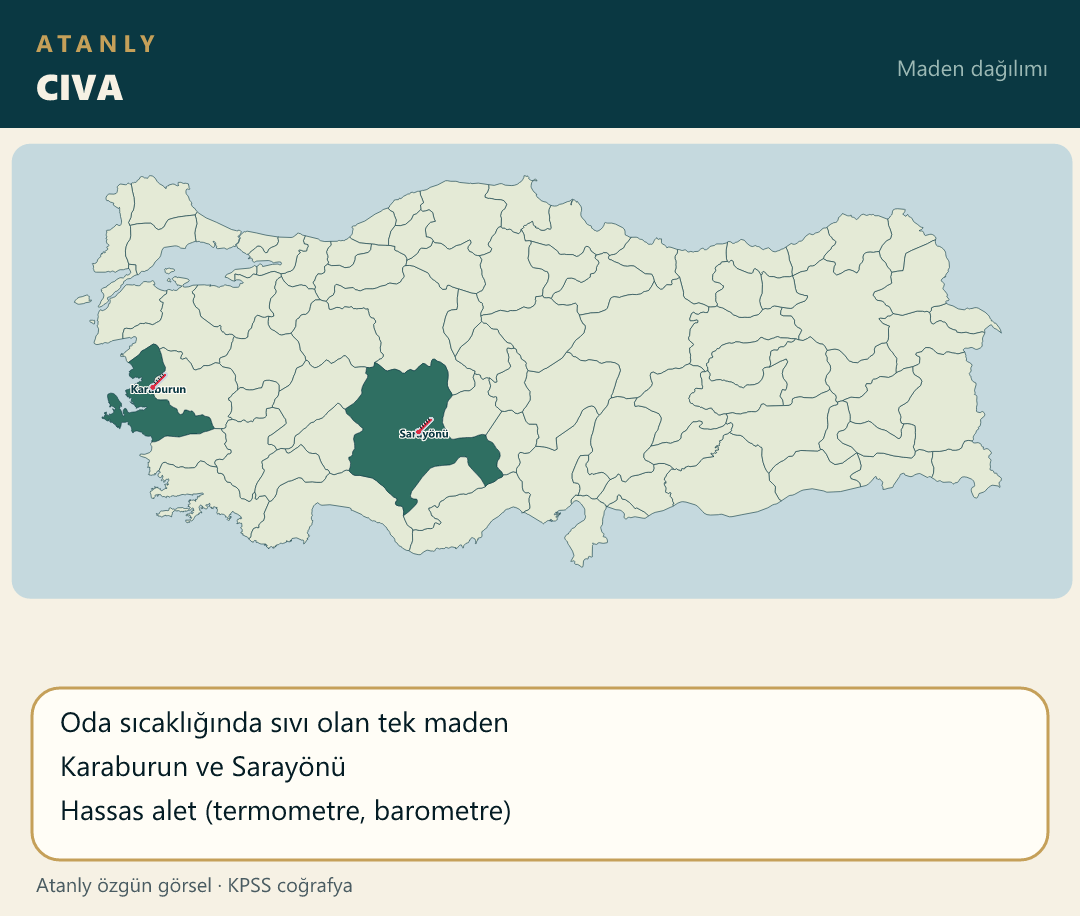
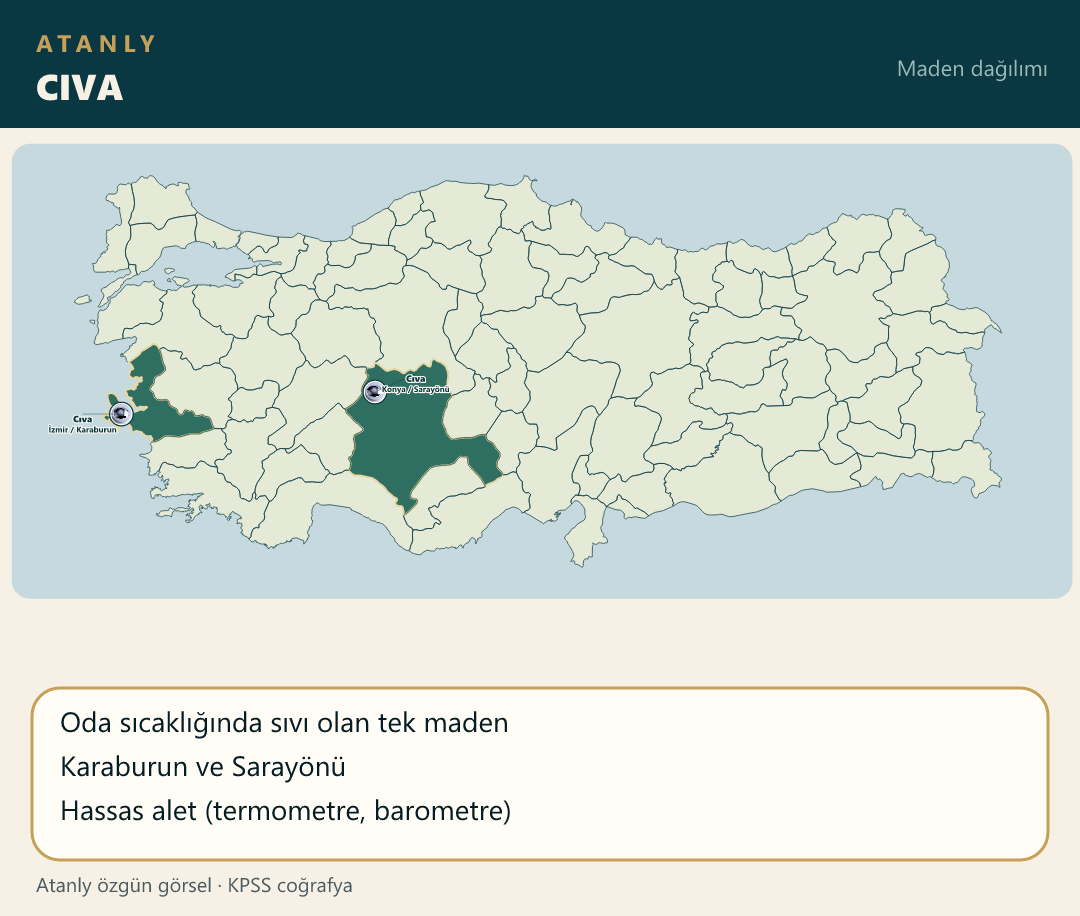
Place the mercury photo on Karaburun and Sarayönü pins.

diff --git a/scripts/build-atanly-maps.js b/scripts/build-atanly-maps.js
@@ -1047,8 +1047,11 @@ function main() {
         { file: "maden_toryum.png", title: "TORYUM", iller: ["Eskişehir"],
             yazilar: ["Sivrihisar"],
             facts: ["Nükleer enerji potansiyeli", "Sivrihisar’da bulunur, henüz işletilmez"] },
-        { file: "maden_civa.png", title: "CIVA", iller: ["İzmir", "Konya"],
-            yazilar: ["Karaburun", "Sarayönü"],
+        { file: "maden_civa.png", title: "CIVA", urun: "Cıva",
+            noktalar: [
+                { il: "İzmir", ilce: "Karaburun", ldx: -38, ldy: 8, pdx: -36, pdy: -6 },
+                { il: "Konya", ilce: "Sarayönü", ldx: 40, ldy: -10, pdx: -28, pdy: -36 }
+            ],
             facts: ["Oda sıcaklığında sıvı olan tek maden", "Karaburun ve Sarayönü", "Hassas alet (termometre, barometre)"] },
         { file: "maden_tuz.png", title: "TUZ", iller: ["Çankırı", "Iğdır", "Kars", "Aksaray", "Konya", "Ankara", "İzmir"],
             yazilar: ["Çankırı", "Iğdır", "Kars", "Tuz Gölü", "Tuz Gölü", "Tuz Gölü", "Çamaltı"],

diff --git a/notlar/cografya-21-not.js b/notlar/cografya-21-not.js
@@ -2,7 +2,7 @@
 (function () {
     function harita(src, alt) {
         return '<div class="mt-4 overflow-hidden rounded-xl border border-blue-200 dark:border-blue-700/50 bg-white dark:bg-slate-800 p-2">' +
-            '<img src="./src/img/' + src + '?v=18" alt="' + alt + ' Haritası" class="w-full h-auto rounded-lg object-contain" loading="lazy">' +
+            '<img src="./src/img/' + src + '?v=19" alt="' + alt + ' Haritası" class="w-full h-auto rounded-lg object-contain" loading="lazy">' +
             "</div>";
     }
 

diff --git a/index.html b/index.html
@@ -119,7 +119,7 @@
     <script src="notlar/cografya-18-not.js?v=17"></script>
     <script src="notlar/cografya-19-not.js?v=25"></script>
     <script src="notlar/cografya-20-not.js?v=1"></script>
-    <script src="notlar/cografya-21-not.js?v=11"></script>
+    <script src="notlar/cografya-21-not.js?v=12"></script>
     <script src="notlar/cografya-22-not.js?v=1"></script>
     <script src="notlar/cografya-23-not.js?v=1"></script>
     <script src="notlar/cografya-24-not.js?v=1"></script>
